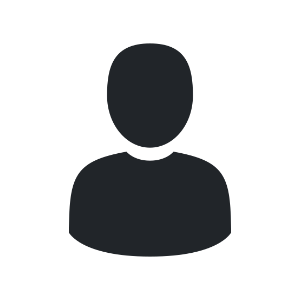
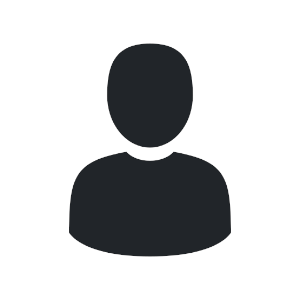
fixed default image if there is no image

diff --git a/src/views/caretaker/patients.html b/src/views/caretaker/patients.html
@@ -19,7 +19,7 @@
         <div class="w-100 pad-caretaker-content">
             <div class="row pb-3">
                 <div class="col-lg-5 image-border1">
-                    <img class="imgpatient" src="assets/img/patient1.png" alt="patient1">
+                    <img class="imgpatient1" id="file_uploader" onerror="if (this.src !== 'error.jpg') this.src = 'assets/img/default_image.png';" alt="patient1">
                 </div>
                 <div class="col-lg-5 caretaker-rehabilitator-text">
                     <p class="ct-year"></p>
@@ -29,6 +29,9 @@
                     <p class="ct-contacttitle"><b>Contact:</b></p>
                     <p class="ct-phonenumber"></p>
                     <p class="ct-mail"></p>
+                    <button id="file_uploader_open" type="button" class="btn default-button mr-2" data-toggle="modal" data-target="#exampleModal">
+                        Profielfoto aanpassen
+                    </button>
                 </div>
             </div>
 
@@ -180,6 +183,25 @@
 
             <div class="modal-footer">
                 <button type="button" class="btn btn-delete--confirm btn-danger" data-dismiss="modal">Verwijder</button>
+            </div>
+        </div>
+    </div>
+</div>
+<!--Modal for image preview caretaker-->
+<div class="modal fade" id="exampleModal" tabindex="-1" role="dialog" aria-labelledby="exampleModalLabel" aria-hidden="true">
+    <div class="modal-dialog" role="document">
+        <div class="pad-container-header">
+            <div id="exampleModalLabel">PROFIEL FOTO AANPASSEN</div>
+        </div>
+        <div class="modal-content pad-container-content">
+            <div class="modal-body upload-center">
+                <img class="upload-center upload-preview" id="file_uploader_popup" src="https://qph.fs.quoracdn.net/main-qimg-2b21b9dd05c757fe30231fac65b504dd"
+                     onerror="if (this.src !== 'error.jpg') this.src = 'assets/img/default_image.png';" alt="Revalidant">
+                <input class="upload-center" type="file" id="fileUpload" name="profile_picture" accept="image/*">
+            </div>
+            <div class="modal-footer">
+                <button type="button" class="btn btn-secondary" data-dismiss="modal">Sluiten</button>
+                <button type="button" class="btn default-button mr-2" id="file_uploader_save" data-dismiss="modal" disabled>Bevestigen</button>
             </div>
         </div>
     </div>

diff --git a/src/assets/js/controllers/categories/patientsController.js b/src/assets/js/controllers/categories/patientsController.js
@@ -92,6 +92,15 @@ class PatientsController extends CategoryController {
         $(".content").empty().append(this.view);
         $(".block-primary").hide();
 
+        this.view.find("#fileUpload").on("change", function () {
+            changeImageUploadPreview(this, '#file_uploader_popup', sessionManager.get("userID"))
+            $('#file_uploader_save').removeAttr("disabled");
+        });
+
+        this.view.find('#file_uploader_save').on("click", function () {
+            uploadImage(sessionManager.get("userID"), selectedImage);
+            $('#file_uploader').attr('src', selectedImage);
+        });
 
         this.setupPagination();
     }
@@ -164,12 +173,21 @@ class PatientsController extends CategoryController {
             $(".ct-description", clone).text(patients[i].description);
             $(".btn-edit--profile", clone).attr("data-id", patients[i].id);
             $(".btn-delete--confirm", clone).attr("data-id", patients[i].id);
-            //img changing to men
-            if (patients[i].gender === "Vrouw"){
-                clone.find(".imgpatient").attr('src','assets/img/patient2.png')
-            } else {
-                clone.find(".imgpatient").attr('src','assets/img/patient1.png')
+            // img changing to men
+            // if (patients[i].gender === "Vrouw"){
+            //     clone.find(".imgpatient").attr('src','assets/img/patient2.png')
+            // } else {
+            //     clone.find(".imgpatient").attr('src','assets/img/patient1.png')
+            // }
+            const userImage = await this.userRepository.getUserImage(patients[i].user_id);
+            if (userImage[0].photo != null) {
+                $(".imgpatient1", clone).attr("src", "./uploads/" + userImage[0].photo);
             }
+            else {
+                $(".imgpatient1", clone).attr("src", "/assets/img/default_image.png");
+            }
+
+            console.log(patients[i].user_id)
 
             //Load progress bar.
             const progressBar = await new ProgressComponent(clone.find(".progress-anchor"));

diff --git a/server/app.js b/server/app.js
@@ -146,6 +146,15 @@ app.post("/user/rehabilitator", (req, res) => {
 
     }, (err) => res.status(badRequestCode).json({reason: err}));
 });
+app.post("/user/photo", (req, res) => {
+    db.handleQuery(connectionPool, {
+        query: "SELECT user.photo FROM user WHERE user.id = ?",
+        values: [req.body.id]
+    }, (data) => {
+        res.send(data)
+
+    }, (err) => res.status(badRequestCode).json({reason: err}));
+});
 
 //retrieve caretaker info
 app.post("/user/caretaker", (req, res) => {
@@ -328,7 +337,7 @@ app.get("/caretaker/all/pagination", (req, res) => {
     const currentPaginationOffset = (req.query.paginationPosition - 1) * maxPerPagination;
 
     db.handleQuery(connectionPool, {
-        query: "SELECT `r`.* FROM `rehabilitator` as `r` INNER JOIN `caretaker` as `c` on `r`.`caretaker_id` = `c`.`caretaker_id` INNER JOIN `user` as `u` on `u`.`id` = `c`.`user_id` WHERE `u`.`id` = ? LIMIT ? OFFSET ?",
+        query: "SELECT r.* FROM rehabilitator as r INNER JOIN caretaker as c on r.caretaker_id = c.caretaker_id INNER JOIN user as u on u.id = c.user_id WHERE u.id = ? LIMIT ? OFFSET ?",
         values: [req.query.userID, parseInt(maxPerPagination), currentPaginationOffset]
     }, (data) => {
         console.log(data)

diff --git a/src/assets/js/repositories/userRepository.js b/src/assets/js/repositories/userRepository.js
@@ -66,5 +66,8 @@ class UserRepository {
         return await networkManager
             .doRequest(`${this.route}/caretaker`, {"id": id}, "POST");
     }
-
+    async getUserImage(id){
+        return await networkManager
+            .doRequest(`${this.route}/photo`, {"id": id}, "POST");
+    }
 }
